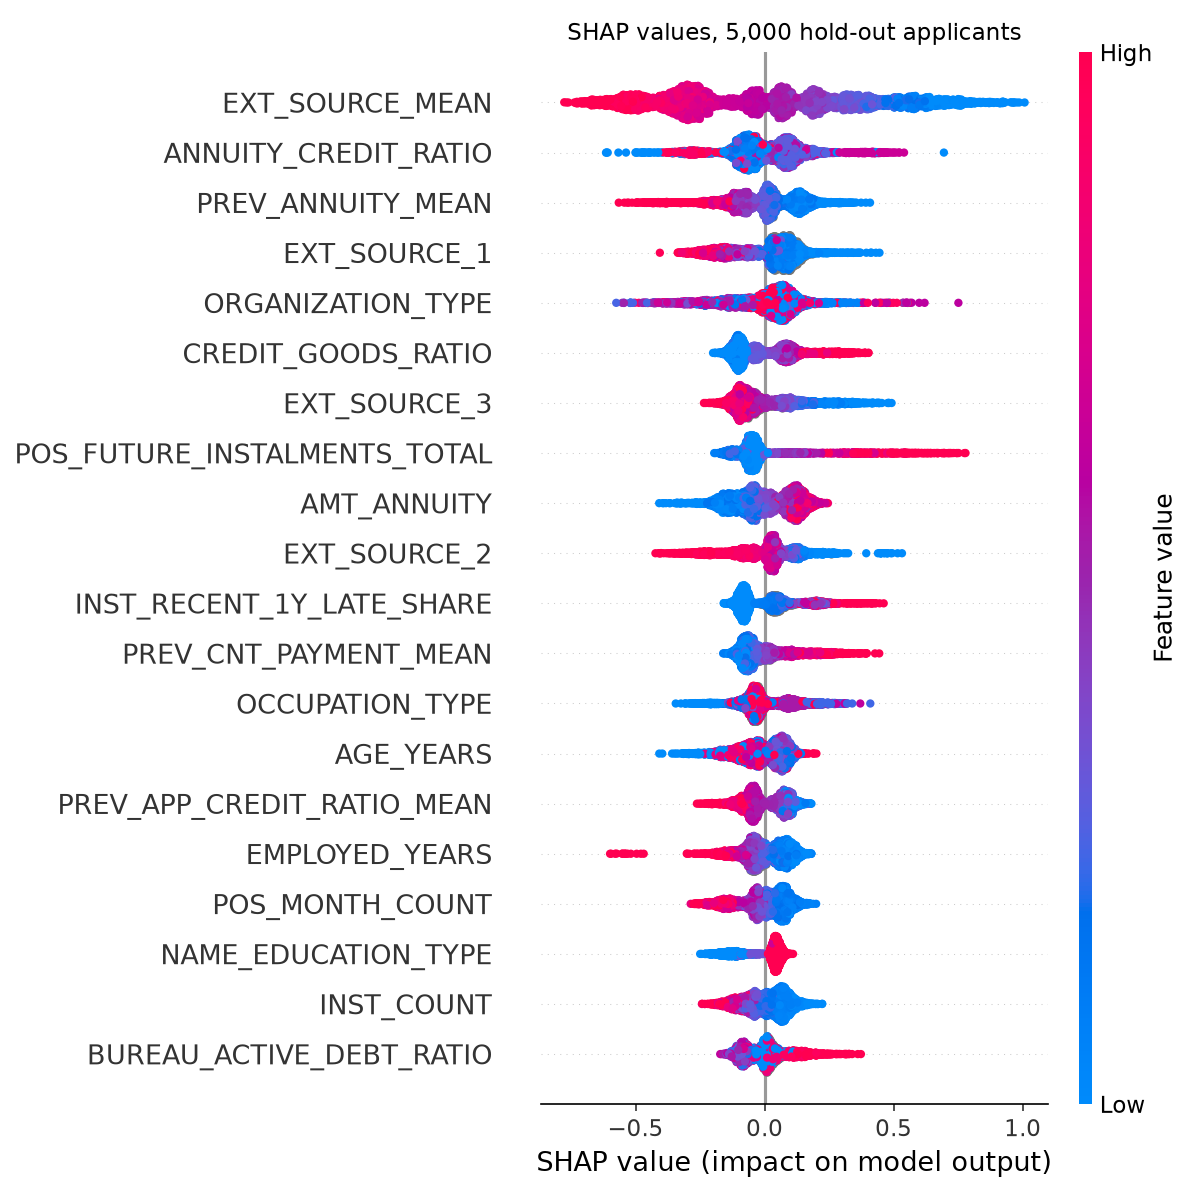
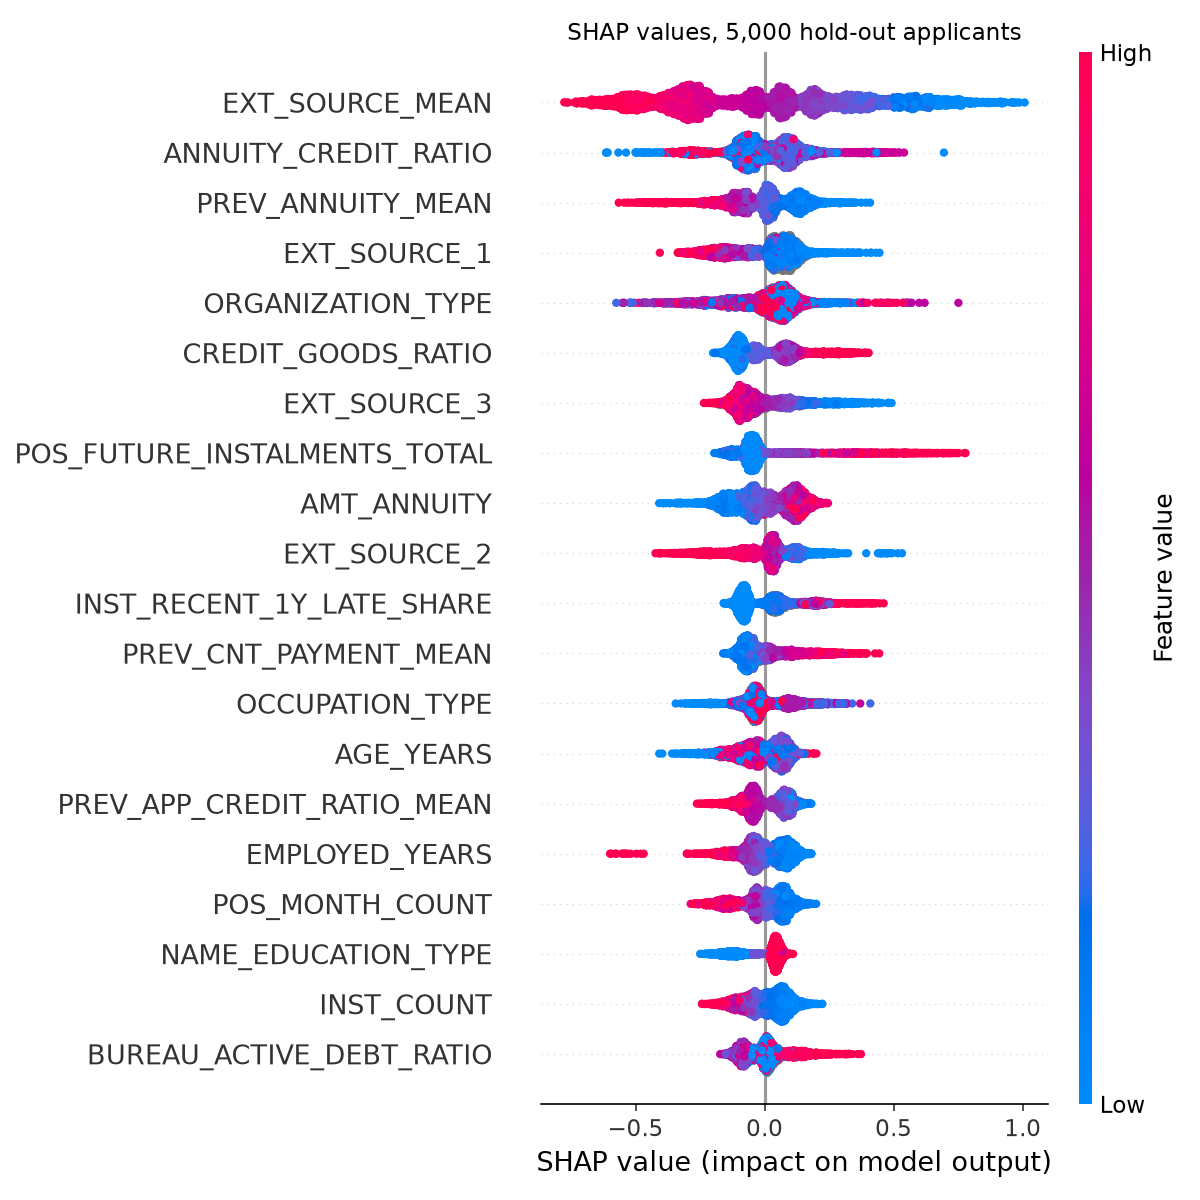
Made location reasons officer-only and showed customers only the percentile of opaque scores

diff --git a/scripts/explain_examples.py b/scripts/explain_examples.py
@@ -94,9 +94,11 @@ def main() -> None:
         "and the percentile says how unusual the value is. When 10% or more of applicants share the exact value (for example "
         "zero late payments), the text gives that share instead of a percentile.",
         "4. The customer list uses plainer labels (\"Credit bureau score\" instead of \"External bureau score (source 2)\") and "
-        "skips officer-only factors: age, social circle, and application, contact and document details such as which phone "
-        "numbers were given. The next eligible factor takes their place. Gender and marital status are not model inputs, so "
-        "they can never appear.",
+        "skips officer-only factors: age, location (region ratings and address mismatches, a fair-lending concern), social "
+        "circle, and application, contact and document details such as which phone numbers were given. The next eligible "
+        "factor takes their place. For opaque scores (the bureau scores and normalised building statistics) the customer "
+        "sees only the percentile, not the raw value. Gender and marital status are not model inputs, so they can never "
+        "appear.",
         "",
         "Home Credit doesn't state the currency of the amounts, so none is shown (`currency` in the config adds one).",
         "",

diff --git a/tests/test_reasons.py b/tests/test_reasons.py
@@ -56,6 +56,24 @@ def test_age_and_contact_flags_are_officer_only():
         assert ENTRIES[f].get("officer_only") is True, f
 
 
+def test_location_features_are_officer_only():
+    # location-based reasons raise fair-lending concerns, so a customer never gets one
+    region = [f for f, e in ENTRIES.items() if e["family"] == "region"]
+    location = [f for f in ENTRIES if f.startswith(("REGION_", "REG_", "LIVE_"))]
+    assert set(location) <= set(region) and len(region) >= 9
+    for f in region:
+        assert ENTRIES[f].get("officer_only") is True, f
+
+
+def test_customers_see_only_the_percentile_of_an_opaque_score():
+    X = pd.DataFrame({"EXT_SOURCE_MEAN": np.linspace(0.01, 0.99, 100)})
+    coder = ReasonCoder(build_reference(X), CONFIG)
+    value = float(X["EXT_SOURCE_MEAN"].iloc[14])
+    assert coder.text("EXT_SOURCE_MEAN", value, "customer") == "Credit bureau score: lowest 20% of applicants"
+    # the officer keeps the value
+    assert coder.text("EXT_SOURCE_MEAN", value, "officer").startswith(f"Average of the external bureau scores: {value:.2f} (")
+
+
 def test_customer_labels_avoid_opaque_source_names():
     for f in ["EXT_SOURCE_1", "EXT_SOURCE_2", "EXT_SOURCE_3", "EXT_SOURCE_MEAN", "EXT_SOURCE_MIN"]:
         assert ENTRIES[f]["customer"] == "Credit bureau score"

diff --git a/scorecard/reasons.py b/scorecard/reasons.py
@@ -132,6 +132,10 @@ class ReasonCoder:
         ref = self.reference[feature]
         if pd.isna(value):
             return f"{label}: not available (missing for {ref['missing']:.1%} of applicants)"
+        if audience == "customer" and entry["format"] == "score":
+            # opaque scores (the bureau scores and the normalised building statistics) mean nothing to a
+            # customer as raw numbers, so the customer sees only where they sit among applicants
+            return f"{label}: {position_phrase(float(value), ref)}"
         shown = format_value(value, entry["format"], self.currency, entry.get("unit"))
         if entry["format"] in ("category", "flag"):
             # for categories and yes/no flags, say how common this answer is ("shared by" so it can't be

diff --git a/reports/reason_codes_report.md b/reports/reason_codes_report.md
@@ -24,11 +24,11 @@ SHAP values come from `shap.TreeExplainer` on the final LightGBM booster, in log
 1. SHAP picks the factors that pushed this applicant's PD up (positive SHAP values), largest first.
 2. Each factor belongs to one family in `config/reason_codes.yaml` (external bureau scores, late payment history, refusals, loan size and term, employment, and so on). Only the strongest factor in each family is shown, so the four reasons are always about four different things.
 3. Each reason states the applicant's actual value and where it sits among the 246,008 development applicants, for example "Average size of previous loans: 45,000 (lowest 40% of applicants)". The text never says "high" or "low risk", because tree models aren't always one-directional: SHAP says this value raised this applicant's risk, and the percentile says how unusual the value is. When 10% or more of applicants share the exact value (for example zero late payments), the text gives that share instead of a percentile.
-4. The customer list uses plainer labels ("Credit bureau score" instead of "External bureau score (source 2)") and skips officer-only factors: age, social circle, and application, contact and document details such as which phone numbers were given. The next eligible factor takes their place. Gender and marital status are not model inputs, so they can never appear.
+4. The customer list uses plainer labels ("Credit bureau score" instead of "External bureau score (source 2)") and skips officer-only factors: age, location (region ratings and address mismatches, a fair-lending concern), social circle, and application, contact and document details such as which phone numbers were given. The next eligible factor takes their place. For opaque scores (the bureau scores and normalised building statistics) the customer sees only the percentile, not the raw value. Gender and marital status are not model inputs, so they can never appear.
 
 Home Credit doesn't state the currency of the amounts, so none is shown (`currency` in the config adds one).
 
-On 5,000 sampled hold-out applicants the officer saw 4.00 reasons on average and the customer 4.00. An officer-only factor was in the officer's list for 25.9% of applicants (an age factor for 9.1%).
+On 5,000 sampled hold-out applicants the officer saw 4.00 reasons on average and the customer 4.00. An officer-only factor was in the officer's list for 40.1% of applicants (an age factor for 9.1%).
 
 Officer reasons by family in the sample:
 
@@ -57,15 +57,15 @@ Officer reasons by family in the sample:
 | Loan officer reasons | Customer reasons |
 |---|---|
 | External bureau score (source 2): not available (missing for 0.2% of applicants) (`EXT_SOURCE_2`, +0.26) | Credit bureau score: not available (missing for 0.2% of applicants) |
-| Home Credit's rating of the home region and city (1 best, 3 worst): 3 (shared by 14.3% of applicants) (`REGION_RATING_CLIENT_W_CITY`, +0.23) | Home region rating: 3 (shared by 14.3% of applicants) |
-| Average yearly repayment on previous loans: 7,882 (lowest 30% of applicants) (`PREV_ANNUITY_MEAN`, +0.18) | Average yearly repayment on previous loans: 7,882 (lowest 30% of applicants) |
-| Yearly repayment as a share of the loan: 4.7% (around the middle of applicants) (`ANNUITY_CREDIT_RATIO`, +0.16) | Yearly repayment as a share of the loan: 4.7% (around the middle of applicants) |
+| Home Credit's rating of the home region and city (1 best, 3 worst): 3 (shared by 14.3% of applicants) (`REGION_RATING_CLIENT_W_CITY`, +0.23) | Average yearly repayment on previous loans: 7,882 (lowest 30% of applicants) |
+| Average yearly repayment on previous loans: 7,882 (lowest 30% of applicants) (`PREV_ANNUITY_MEAN`, +0.18) | Yearly repayment as a share of the loan: 4.7% (around the middle of applicants) |
+| Yearly repayment as a share of the loan: 4.7% (around the middle of applicants) (`ANNUITY_CREDIT_RATIO`, +0.16) | Share of instalments paid late: 27.8% (highest 10% of applicants) |
 
 **Applicant 140957**: PD 29.3%, band E (very high), decision **decline** (actual outcome: defaulted).
 
 | Loan officer reasons | Customer reasons |
 |---|---|
-| Average of the external bureau scores: 0.30 (lowest 10% of applicants) (`EXT_SOURCE_MEAN`, +0.59) | Credit bureau score: 0.30 (lowest 10% of applicants) |
+| Average of the external bureau scores: 0.30 (lowest 10% of applicants) (`EXT_SOURCE_MEAN`, +0.59) | Credit bureau score: lowest 10% of applicants |
 | Largest overdue amount ever at other lenders: 582,898 (highest 10% of applicants) (`BUREAU_MAX_OVERDUE_AMT`, +0.42) | Largest overdue amount ever at other lenders: 582,898 (highest 10% of applicants) |
 | Average yearly repayment on previous loans: 5,945 (lowest 20% of applicants) (`PREV_ANNUITY_MEAN`, +0.15) | Average yearly repayment on previous loans: 5,945 (lowest 20% of applicants) |
 | Occupation: Laborers (shared by 26.2% of applicants) (`OCCUPATION_TYPE`, +0.12) | Occupation: Laborers (shared by 26.2% of applicants) |
@@ -74,7 +74,7 @@ Officer reasons by family in the sample:
 
 | Loan officer reasons | Customer reasons |
 |---|---|
-| Average of the external bureau scores: 0.40 (lowest 30% of applicants) (`EXT_SOURCE_MEAN`, +0.40) | Credit bureau score: 0.40 (lowest 30% of applicants) |
+| Average of the external bureau scores: 0.40 (lowest 30% of applicants) (`EXT_SOURCE_MEAN`, +0.40) | Credit bureau score: lowest 30% of applicants |
 | Share of previous applications refused: 60.0% (highest 10% of applicants) (`PREV_REFUSED_SHARE`, +0.26) | Share of previous applications refused: 60.0% (highest 10% of applicants) |
 | Average term of previous loans: 30 instalments (highest 10% of applicants) (`PREV_CNT_PAYMENT_MEAN`, +0.22) | Average term of previous loans: 30 instalments (highest 10% of applicants) |
 | Employer sector: Self-employed (shared by 12.4% of applicants) (`ORGANIZATION_TYPE`, +0.16) | Employer sector: Self-employed (shared by 12.4% of applicants) |
@@ -83,7 +83,7 @@ Officer reasons by family in the sample:
 
 | Loan officer reasons | Customer reasons |
 |---|---|
-| Average of the external bureau scores: 0.46 (lowest 40% of applicants) (`EXT_SOURCE_MEAN`, +0.28) | Credit bureau score: 0.46 (lowest 40% of applicants) |
+| Average of the external bureau scores: 0.46 (lowest 40% of applicants) (`EXT_SOURCE_MEAN`, +0.28) | Credit bureau score: lowest 40% of applicants |
 | Time with current employer: 0.3 years (lowest 10% of applicants) (`EMPLOYED_YEARS`, +0.15) | Time with current employer: 0.3 years (lowest 10% of applicants) |
 | Yearly repayment as a share of the loan: 4.7% (around the middle of applicants) (`ANNUITY_CREDIT_RATIO`, +0.14) | Yearly repayment as a share of the loan: 4.7% (around the middle of applicants) |
 | Average yearly repayment on previous loans: 3,705 (lowest 10% of applicants) (`PREV_ANNUITY_MEAN`, +0.14) | Average yearly repayment on previous loans: 3,705 (lowest 10% of applicants) |
@@ -101,7 +101,7 @@ Officer reasons by family in the sample:
 
 | Loan officer reasons | Customer reasons |
 |---|---|
-| Average of the external bureau scores: 0.42 (lowest 30% of applicants) (`EXT_SOURCE_MEAN`, +0.22) | Credit bureau score: 0.42 (lowest 30% of applicants) |
+| Average of the external bureau scores: 0.42 (lowest 30% of applicants) (`EXT_SOURCE_MEAN`, +0.22) | Credit bureau score: lowest 30% of applicants |
 | Average yearly repayment on previous loans: 4,735 (lowest 10% of applicants) (`PREV_ANNUITY_MEAN`, +0.16) | Average yearly repayment on previous loans: 4,735 (lowest 10% of applicants) |
 | Loan amount as a multiple of the goods price: 1.26 times (highest 20% of applicants) (`CREDIT_GOODS_RATIO`, +0.11) | Loan amount as a multiple of the goods price: 1.26 times (highest 20% of applicants) |
 | Work phone provided: Yes (shared by 20.0% of applicants) (`FLAG_WORK_PHONE`, +0.11) | Largest overdue amount ever at other lenders: 7,213 (highest 30% of applicants) |

diff --git a/docs/features.md b/docs/features.md
@@ -17,7 +17,7 @@ The "AUC" column is each feature's univariate AUC on all labelled applicants, fo
 | Documents and enquiries | `FLAG_DOCUMENT_3`, `DOCUMENT_COUNT`, `AMT_REQ_CREDIT_BUREAU_*` | Paperwork provided, and how often other lenders recently checked the applicant's credit |
 | Social circle | `DEF_30_CNT_SOCIAL_CIRCLE`, `OBS_60_CNT_SOCIAL_CIRCLE` | Defaults among people in the applicant's social circle |
 
-**Protected attributes.** `CODE_GENDER` and `NAME_FAMILY_STATUS` stay in the feature table but are not inputs to any model in the experiments or the final model (`PROTECTED_INPUTS` in `scorecard/features.py`). Using gender or marital status in a lending decision is hard to justify under MAS's FEAT principles (Fairness, Ethics, Accountability, Transparency). They are kept only for the fairness analysis, which also trains a comparison model with both added back to show what they would add. Age (`AGE_YEARS`, and `EMPLOYED_TO_AGE_RATIO`, which is derived from it) is a model input and can appear in the loan officer's reason codes, but is never given to a customer as a reason. The same officer-only flag covers the social circle features and application details such as which phone numbers or documents were given and the hour the application started (`officer_only` in `config/reason_codes.yaml`): they help the model, but they are not something a customer could reasonably act on or should be judged by in a letter.
+**Protected attributes.** `CODE_GENDER` and `NAME_FAMILY_STATUS` stay in the feature table but are not inputs to any model in the experiments or the final model (`PROTECTED_INPUTS` in `scorecard/features.py`). Using gender or marital status in a lending decision is hard to justify under MAS's FEAT principles (Fairness, Ethics, Accountability, Transparency). They are kept only for the fairness analysis, which also trains a comparison model with both added back to show what they would add. Age (`AGE_YEARS`, and `EMPLOYED_TO_AGE_RATIO`, which is derived from it) is a model input and can appear in the loan officer's reason codes, but is never given to a customer as a reason. The same officer-only flag covers the social circle features and application details such as which phone numbers or documents were given and the hour the application started (`officer_only` in `config/reason_codes.yaml`): they help the model, but they are not something a customer could reasonably act on or should be judged by in a letter. Location-based features (the region ratings, region population density, and whether the registered, home and work addresses are in different regions or cities) are officer-only too: location can stand in for ethnicity or income in ways that raise fair-lending concerns (the redlining problem), so a location reason should be reviewed by a person, not sent to a customer. For opaque scores (the external bureau scores and the normalised building statistics), the customer is told only where they sit among applicants, not the raw number.
 
 Cleaning: `DAYS_EMPLOYED = 365243` becomes missing (with a flag), `CODE_GENDER = XNA` (4 rows) becomes missing, and day counts become years. I kept only the AVG version of each housing statistic, since the MODE and MEDI versions mostly repeat it. Of the 20 document flags I kept their count and `FLAG_DOCUMENT_3`, the only common one.
 
